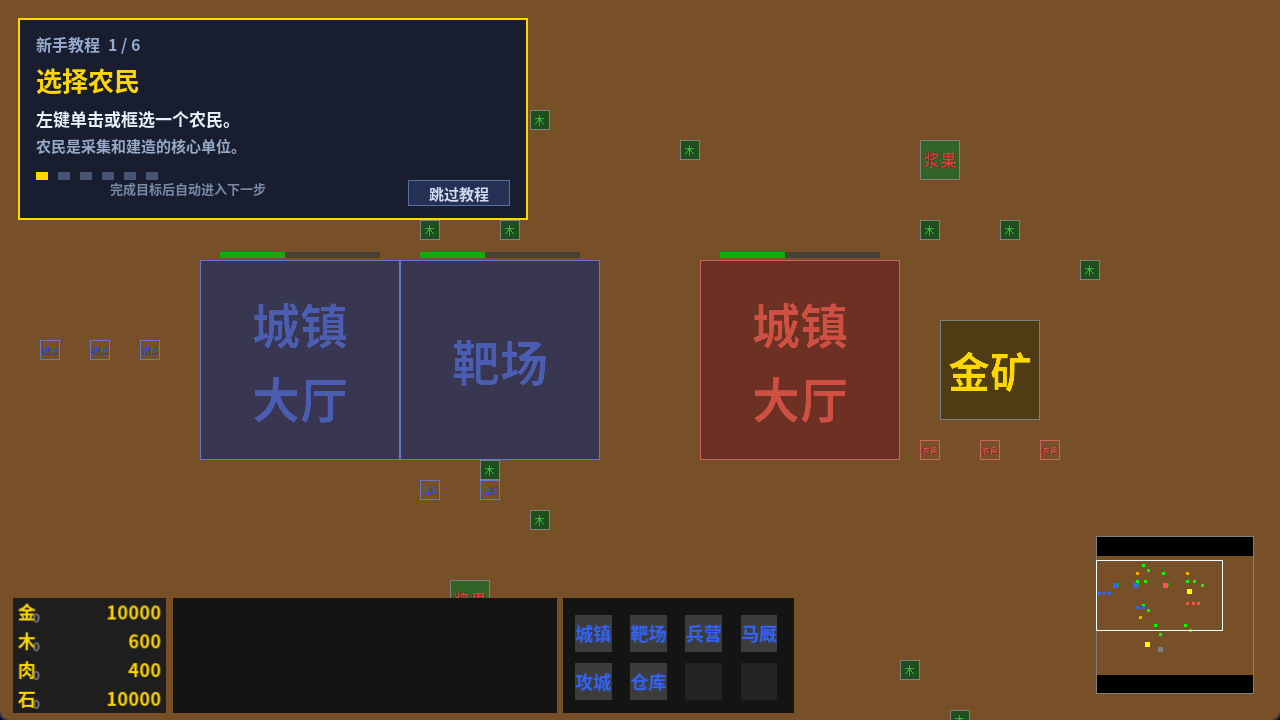
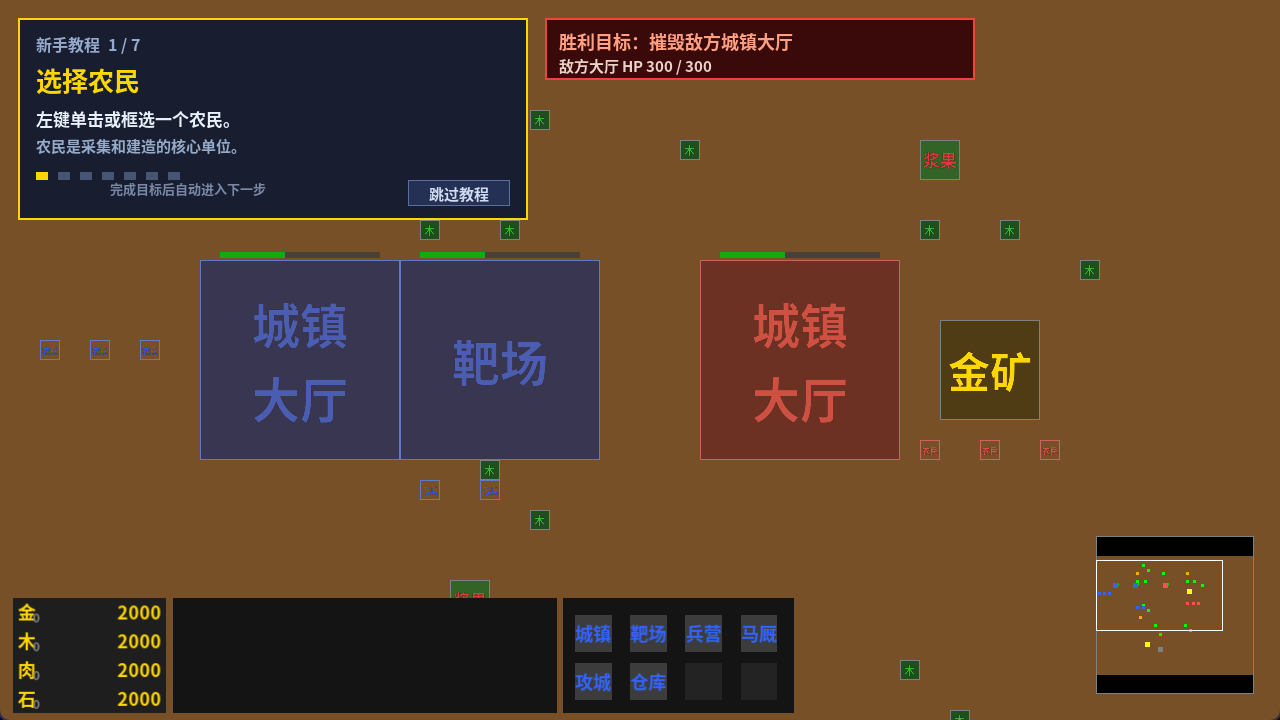
feat: v1.4 教程胜利目标、敌军突袭与增援

Changed region(s): [[0.4062, 0.0, 0.7812, 0.1222], [0.0938, 0.8861, 0.125, 0.9472]]

diff --git a/SimpleRTS/tutorial_scene.cpp b/SimpleRTS/tutorial_scene.cpp
@@ -104,10 +104,12 @@ void TutorialScene::render_tutorial()
         ui_fill_rect(renderer, box, { 24, 30, 48, 255 }, { 255, 215, 0, 255 }, 2);
         ui_draw_text(renderer, u8"教程完成！", 40, { 255, 215, 0, 255 },
             box.x + pw * 0.5f, box.y + 44.0f, true);
-        ui_draw_text(renderer, u8"你已经学会：选择、采集、建造、训练、研究、攻击。",
-            20, { 220, 230, 248, 255 }, box.x + pw * 0.5f, box.y + 100.0f, true);
-        ui_draw_text(renderer, u8"现在去 map2v2 打一场真正的 2v2 吧。",
-            18, { 160, 180, 215, 255 }, box.x + pw * 0.5f, box.y + 132.0f, true);
+        ui_draw_text(renderer, u8"你击退了敌军，并摧毁了敌方城镇大厅。",
+            20, { 220, 230, 248, 255 }, box.x + pw * 0.5f, box.y + 96.0f, true);
+        ui_draw_text(renderer, u8"普通对局胜利目标：摧毁敌方阵营所有建筑。",
+            18, { 255, 180, 120, 255 }, box.x + pw * 0.5f, box.y + 128.0f, true);
+        ui_draw_text(renderer, u8"现在去 map2v2 或 1v1 地图打一场真正的对局吧。",
+            17, { 160, 180, 215, 255 }, box.x + pw * 0.5f, box.y + 160.0f, true);
 
         const float bw = 220.0f, bh = 52.0f;
         continue_btn_ = { box.x + 40.0f, box.y + 220.0f, bw, bh };
@@ -124,8 +126,20 @@ void TutorialScene::render_tutorial()
     panel_ = { 18.0f, 18.0f, 510.0f, 202.0f };
     ui_fill_rect(renderer, panel_, { 24, 30, 48, 245 }, { 255, 215, 0, 255 }, 2);
 
+    // 始终可见的胜利目标
+    SDL_FRect objective{ 545.0f, 18.0f, 430.0f, 62.0f };
+    ui_fill_rect(renderer, objective, { 58, 10, 10, 245 }, { 235, 70, 60, 255 }, 2);
+    ui_draw_text(renderer, u8"胜利目标：摧毁敌方城镇大厅", 18, { 255, 160, 130, 255 },
+        objective.x + 14.0f, objective.y + 10.0f);
+    int cur_hp = 0, max_hp = 0;
+    std::string hp_text = game_->get_tutorial_enemy_tc_hp(cur_hp, max_hp)
+        ? u8"敌方大厅 HP " + std::to_string(cur_hp) + " / " + std::to_string(max_hp)
+        : u8"目标已达成";
+    ui_draw_text(renderer, hp_text, 15, { 235, 210, 200, 255 },
+        objective.x + 14.0f, objective.y + 36.0f);
+
     const int step = game_->get_tutorial_step();
-    const std::string step_text = u8"新手教程  " + std::to_string(step + 1) + " / 6";
+    const std::string step_text = u8"新手教程  " + std::to_string(step + 1) + " / 7";
     ui_draw_text(renderer, step_text, 16, { 150, 170, 205, 255 },
         panel_.x + 18.0f, panel_.y + 14.0f);
     ui_draw_text(renderer, game_->get_tutorial_title(), 26, { 255, 215, 0, 255 },
@@ -135,7 +149,7 @@ void TutorialScene::render_tutorial()
     ui_draw_text(renderer, game_->get_tutorial_detail2(), 15, { 150, 170, 200, 255 },
         panel_.x + 18.0f, panel_.y + 116.0f);
 
-    for (int i = 0; i < 6; ++i) {
+    for (int i = 0; i < 7; ++i) {
         SDL_FRect dot{ panel_.x + 18.0f + i * 22.0f, panel_.y + 154.0f, 12.0f, 8.0f };
         SDL_Color c = (i < step) ? SDL_Color{ 80, 210, 130, 255 }
             : (i == step ? SDL_Color{ 255, 215, 0, 255 }

diff --git a/SimpleRTS/game_scene.h b/SimpleRTS/game_scene.h
@@ -54,6 +54,7 @@ public:
 	const char* get_tutorial_title() const { return tutorial_title(); }
 	const char* get_tutorial_detail1() const { return tutorial_detail1(); }
 	const char* get_tutorial_detail2() const { return tutorial_detail2(); }
+	bool get_tutorial_enemy_tc_hp(int& current_hp, int& max_hp) const;
 	void skip_tutorial() { tutorial_mode_ = false; tutorial_finished_ = false; }
 
 
@@ -98,6 +99,8 @@ private:
 	SDL_FRect tutorial_skip_btn_{};
 	SDL_FRect tutorial_continue_btn_{};
 	SDL_FRect tutorial_menu_btn_{};
+	std::vector<uint64_t> tutorial_wave_ids_;
+	bool tutorial_wave_spawned_ = false;
 
 	void init_tutorial();
 	void update_tutorial(float delta);
@@ -108,6 +111,7 @@ private:
 	const char* tutorial_detail1() const;
 	const char* tutorial_detail2() const;
 	bool tutorial_is_enemy(GameObject* obj) const;
+	void start_tutorial_wave();
 
 
 	void update_ui_layout();

diff --git a/SimpleRTS/menu_scene.cpp b/SimpleRTS/menu_scene.cpp
@@ -129,7 +129,7 @@ void MenuScene::on_render()
     // 标题
     ui_draw_text(renderer, u8"MySTR", 88, { 255, 215, 0, 255 }, LOGICAL_W * 0.5f, 190.0f, true);
     ui_draw_text(renderer, u8"2D 即时战略", 36, { 200, 210, 230, 255 }, LOGICAL_W * 0.5f, 290.0f, true);
-    ui_draw_text(renderer, u8"v1.3  ·  地图编辑与初始资源", 16, { 120, 132, 155, 255 },
+    ui_draw_text(renderer, u8"v1.4  ·  胜利目标：摧毁敌方全部建筑", 16, { 120, 132, 155, 255 },
         LOGICAL_W * 0.5f, LOGICAL_H - 20.0f, true);
 
     // 按钮

diff --git a/SimpleRTS/main.cpp b/SimpleRTS/main.cpp
@@ -47,7 +47,7 @@ int main(int argc, char* argv[])
     using namespace std::chrono;
     init();
 
-    SDL_Window* window = SDL_CreateWindow(u8"MySTR v1.3",
+    SDL_Window* window = SDL_CreateWindow(u8"MySTR v1.4",
         1280, 720, 0);
     SDL_Renderer* renderer = SDL_CreateRenderer(window, NULL);
     TTF_Font* font = TTF_OpenFont("font/SourceHanSansSC-Bold.otf", 18);

diff --git a/README.md b/README.md
@@ -1,6 +1,6 @@
 <div align="center">
 
-<img src="docs/images/hero.png" alt="MySTR v1.3" width="100%" />
+<img src="docs/images/hero.png" alt="MySTR v1.4" width="100%" />
 
 # MySTR · SimpleRTS
 
@@ -18,7 +18,7 @@
 <br />
 
 <a href="https://github.com/LiHua-25565/SimpleRTS/releases/latest">
-  <img src="https://img.shields.io/badge/%E2%AC%87%EF%B8%8F%20%E4%B8%8B%E8%BD%BD%20MySTR%20v1.3%20Windows%20x64-2ea043?style=for-the-badge&logo=windows&logoColor=white&labelColor=0b1020" alt="下载 MySTR v1.3" height="56" />
+  <img src="https://img.shields.io/badge/%E2%AC%87%EF%B8%8F%20%E4%B8%8B%E8%BD%BD%20MySTR%20v1.4%20Windows%20x64-2ea043?style=for-the-badge&logo=windows&logoColor=white&labelColor=0b1020" alt="下载 MySTR v1.4" height="56" />
 </a>
 
 **Windows 10 / 11 · 免安装 · 解压即玩 · 已带运行库与字体**
@@ -37,7 +37,7 @@
 
 点击上方绿色按钮，或直接打开：
 
-[**Releases → v1.3 → SimpleRTS-v1.3-win64.zip**](https://github.com/LiHua-25565/SimpleRTS/releases/latest)
+[**Releases → v1.4 → SimpleRTS-v1.4-win64.zip**](https://github.com/LiHua-25565/SimpleRTS/releases/latest)
 
 </td>
 <td width="33%" valign="top">
@@ -87,15 +87,20 @@
 
 主菜单 → **新手教程**（或按 `T`）进入独立的 `tutorial` 训练关卡，不影响普通对局。
 
-教程共 6 步，完成目标后自动进入下一步：
+教程共 7 步，完成目标后自动进入下一步：
 
-1. **选择农民** — 左键单击或框选一个农民。
+1. **选择农民** — 左键单击或框选一个农民；用 `WASD` / 方向键移动视角。
 2. **采集木材** — 右键点击基地旁的树木。
 3. **建造第二座靶场** — 点击下方「靶场」并放置。
 4. **训练弓兵** — 选中靶场，点击「弓」。
 5. **研究强弓** — 研究完成后弓兵射程 +50。
-6. **攻击敌方大厅** — 右键点击右侧红色城镇大厅。
+6. **击退敌军突袭** — 3 名敌军弓兵进攻基地，同时你会获得 3 名弓兵增援。
+7. **摧毁敌方城镇大厅** — 右键攻击右侧红色大厅，直到摧毁。
 
+> **胜利目标始终显示在右上角**：`摧毁敌方城镇大厅`，并实时显示敌方大厅 HP。
+>
+> 教程完成面板会再次说明普通对局胜利条件：**摧毁敌方阵营所有建筑**。
+>
 > 教程关卡有独立场景和教程面板；随时可以点「跳过教程」回到自由练习。
 
 ---
@@ -125,8 +130,8 @@ MySTR 是一个**可以直接玩、也可以直接改**的 2D 即时战略游戏
 
 它没有使用现成引擎：ECS、地图流场寻路、RVO 局部避让、选择框、生产队列、AI、UI、数据定义与编辑器，全部用 C++17 和 SDL3 手写。你可以在游戏里采集资源、造建筑、研究科技、训练军队，也可以按 `F2` 打开编辑器，把兵种、建筑和科技改成自己想要的样子。
 
-> **v1.3 主题：地图编辑与初始资源。**
-> 地图编辑器现在可以载入任意尺寸的新地图，并能为每个玩家设置初始木/肉/金/石；保存时写入地图 S 行，缺省各 2000。
+> **v1.4 主题：胜利目标与实战教程。**
+> 教程现在有明确的「摧毁敌方城镇大厅」胜利目标、敌军突袭与增援，以及最终胜利结算；同时保留地图编辑器与每玩家初始资源。
 
 ---
 
@@ -243,7 +248,7 @@ MySTR 是一个**可以直接玩、也可以直接改**的 2D 即时战略游戏
 ### 方式一：下载 Release（推荐）
 
 1. 打开 [**Releases**](https://github.com/LiHua-25565/SimpleRTS/releases/latest)。
-2. 下载 `SimpleRTS-v1.3-win64.zip`。
+2. 下载 `SimpleRTS-v1.4-win64.zip`。
 3. 解压到任意目录（不要只把 exe 拖出来，`font/`、`maps/`、`defs/` 需要和 exe 放在一起）。
 4. 双击 `SimpleRTS.exe`。
 
@@ -440,6 +445,15 @@ SimpleRTS/
 ## 更新日志
 
 完整记录见 [CHANGELOG.md](CHANGELOG.md)。
+
+### v1.4
+
+- 教程扩展为 7 步，加入视野操作提示、敌军突袭与增援。
+- 右上角常驻 **胜利目标：摧毁敌方城镇大厅**，并显示敌方大厅 HP。
+- 教程敌方大厅调整为 300 HP，最终目标改为真正摧毁大厅。
+- 新增第 6 步「击退敌军突袭」：3 名敌军弓兵进攻，玩家获得 3 名弓兵增援。
+- 教程完成面板明确普通对局胜利条件：摧毁敌方阵营所有建筑。
+- 保留 v1.3 的地图编辑器初始资源与任意尺寸载入。
 
 ### v1.3
 

diff --git a/CHANGELOG.md b/CHANGELOG.md
@@ -2,6 +2,21 @@
 
 所有重要更新记录在此文件。
 
+## v1.4 — 胜利目标与实战教程
+
+### 新手教程
+
+- 教程扩展为 7 步：选择农民 → 采木 → 建靶场 → 训练弓兵 → 研究强弓 → 击退突袭 → 摧毁敌方城镇大厅。
+- 教程右上角常驻胜利目标：`摧毁敌方城镇大厅`，并实时显示敌方大厅 HP。
+- 教程敌方城镇大厅调整为 300 HP，最后一击更容易完成。
+- 新增「击退敌军突袭」步骤：
+  - 3 名敌军弓兵从战场中间进攻玩家基地；
+  - 玩家同时获得 3 名弓兵增援；
+  - 击退全部突袭单位后进入最终目标。
+- 最终目标改为真正摧毁敌方城镇大厅，而不是下达攻击命令。
+- 教程完成面板明确普通对局胜利条件：摧毁敌方阵营所有建筑。
+- 教程第一步补充 `WASD` / 方向键移动视角提示。
+
 ## v1.3 — 地图编辑器与初始资源
 
 ### 地图编辑器
